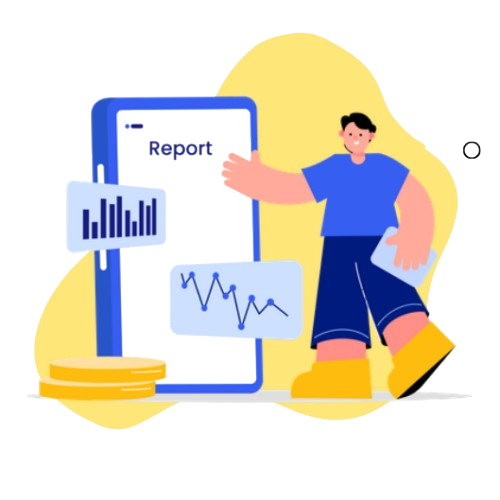
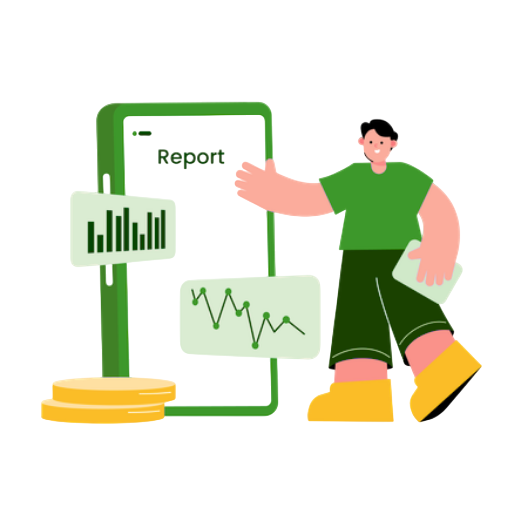
fix colors and header

diff --git a/components/Home/Header/Header.tsx b/components/Home/Header/Header.tsx
@@ -2,36 +2,106 @@ import React from "react";
 
 const Header = () => {
   return (
-    <div className="relative bg-[url('/assets/Header/headerBackground.png')] bg-contain bg-no-repeat bg-center w-full h-[250px] md:h-[400px] lg:h-[600px] 2xl:h-[1000px] mb-6 -mt-12 lg:top-[-60px] z-0 flex flex-row justify-between items-center ">
-      <div className="h-full w-7/12 mx-auto justify-center flex flex-col pl-5 pb-30">
-        <div className="flex items-center h-auto ">
-          <h2 className="md:text-[26px] lg:text-4xl xl:text-5xl 2xl:text-8xl font-agrandir font-bold text-primary self-end mt-6 xl:mt-10 z-10">
-            EL BLOG PERFECTO
-          </h2>
-          <img
-            src="/assets/Header/icon.png"
-            alt=""
-            className="size-11 xl:size-16 self-start -ml-3 lg:-ml-4 xl:-ml-5 z-0"
-          />
-        </div>
-        <div>
+    <>
+      <div
+        className="
+    relative hidden md:flex flex-row justify-between items-center
+    w-full h-[250px] md:h-[400px] lg:h-[600px] 2xl:h-[1000px]
+    bg-[url('/assets/Header/headerBackground.png')] bg-contain bg-no-repeat bg-center
+    -mt-12 mb-6 lg:top-[-60px] z-0 lg:px-12
+  "
+      >
+        {/* Texto principal */}
+        <div className="flex flex-col justify-center h-full w-7/12 mx-auto pl-5 pb-30">
+          {/* Título con ícono */}
+          <div className="flex items-center h-auto">
+            <h2
+              className="
+          font-agrandir font-bold text-primary
+          md:text-[36px] lg:text-4xl xl:text-5xl 2xl:text-8xl
+          self-end mt-6 xl:mt-10 z-10
+        "
+            >
+              EL BLOG PERFECTO
+            </h2>
+            <img
+              src="/assets/Header/icon.png"
+              alt="icon"
+              className="size-11 xl:size-16 self-start -ml-3 lg:-ml-4 xl:-ml-5 z-0"
+            />
+          </div>
+
+          {/* Subtítulo */}
           <h3 className="font-agrandir">
             <span className="flex gap-1">
               <span className="md:text-xl xl:text-2xl">para una</span>
               <span className="md:text-2xl xl:text-5xl">VIDA FINANCIERA</span>
             </span>
-            <span className="md:text-[26px] xl:text-6xl font-agrandir font-bold text-primary">
+            <span
+              className="
+          md:text-[36px] xl:text-6xl
+          font-agrandir font-bold text-primary
+        "
+            >
               PRECISA
             </span>
           </h3>
         </div>
-      </div>
 
-      <img
-        src="/assets/Header/mainimage.png"
-        className="w-[200px] md:w-[325px] lg:w-[450px] xl:w-[600px] 2xl:w-[1000px] aspect-square"
-      />
-    </div>
+        {/* Imagen principal */}
+        <img
+          src="/assets/Header/mainimage.png"
+          alt="main"
+          className="
+      w-[200px] md:w-[325px] lg:w-[450px] xl:w-[600px] 2xl:w-[1000px]
+      aspect-square
+    "
+        />
+      </div>
+      <div
+        className="relative md:hidden flex flex-col items-center justify-between
+    w-full h-[70vh]
+    bg-[url('/assets/Header/headerBackgroundMobile.png')] bg-cover bg-no-repeat bg-center
+    -mt-12 mb-6 z-0"
+      >
+        <div className="flex flex-col h-auto w-full px-10 items-center text-center">
+          {/* Título con ícono */}
+
+          <h2
+            className=" text-3xl w-full
+          font-agrandir font-bold text-primary mt-14 z-10
+        "
+          >
+            EL BLOG PERFECTO
+          </h2>
+
+          {/* Subtítulo */}
+          <h3 className="font-agrandir">
+            <span className="flex gap-1">
+              <span className="text-2xl text-tertiary">para una</span>
+              <span className="text-2xl font-bold">VIDA FINANCIERA</span>
+            </span>
+            <span
+              className="
+          font-agrandir font-bold text-primary text-center text-4xl 
+        "
+            >
+              PRECISA
+            </span>
+          </h3>
+        </div>
+        <img
+          src="/assets/Header/mainimage.png"
+          alt="main"
+          className="
+      w-[80%]
+      max-w-[450px]
+
+      aspect-square
+    "
+        />
+      </div>
+    </>
   );
 };
 

diff --git a/components/Footer/footer.tsx b/components/Footer/footer.tsx
@@ -6,15 +6,22 @@ import { ReactSVG } from "react-svg";
 const Footer = () => {
   return (
     <footer className="bg-primary-background text-background px-10 md:px-20 py-10 self-end">
-      <div className="container mx-auto flex flex-col md:flex-row items-center md:items-start justify-between gap-8">
+      <div className=" mx-auto flex flex-col md:flex-row items-center md:items-start justify-between gap-3">
         {/* Imagen */}
         <div className="flex flex-col flex-shrink-0 gap-8">
           <Image
             src="/assets/Layout/Navbar/logop.png" // Cambia por tu imagen
             alt="Wallet en la nube"
-            width={300}
-            height={300}
-            className="rounded-2xl"
+            width={220}
+            height={220}
+            className="rounded-2xl block lg:hidden"
+          />
+          <Image
+            src="/assets/Layout/Navbar/logop.png" // Cambia por tu imagen
+            alt="Wallet en la nube"
+            width={320}
+            height={320}
+            className="rounded-2xl lg:block md:hidden"
           />
           <div className="hidden md:flex gap-4">
             <span className="font-semibold font-agrandir text-xl self-end">
@@ -36,9 +43,9 @@ const Footer = () => {
         </div>
 
         {/* Texto y botón */}
-        <div className="text-center md:text-left max-w-md">
-          <h2 className="text-3xl md:text-7xl font-bold font-agrandir">
-            WALLET EN LA NUBE
+        <div className="text-center md:text-left max-w-xl self-center">
+          <h2 className="text-3xl lg:text-5xl font-bold font-agrandir">
+            EL MONOPOLOMBIANO
           </h2>
           <p className="mt-4 text-sm font-canva-sans">
             Para más información, ayuda y asesoría, puedes suscribirte a nuestra
@@ -73,11 +80,11 @@ const Footer = () => {
 
         {/* Links legales */}
         <div className="flex flex-col-reverse md:flex-row items-center justify-between w-full gap-4">
-          <p className="font-agrandir font-bold text-sm">
-            © Wallet en la nube 2025
+          <p className="font-agrandir font-bold text-sm lg:text-lg">
+            © El Monopolombiano 2025
           </p>
 
-          <div className="flex flex-row items-center gap-4 text-sm">
+          <div className="flex flex-row items-center gap-4 text-sm lg:text-lg">
             <a href="#" className="font-agrandir font-bold">
               Política de privacidad
             </a>

diff --git a/components/nu/Table.tsx b/components/nu/Table.tsx
@@ -71,7 +71,7 @@ const CalculatorNu = ({
         <h3 className="text-sm text-secondary font-canva-sans font-bold">
           Valor a invertir
         </h3>
-        <div className="group flex items-center gap-2 border-2 border-purple-200 rounded-lg px-3 py-2 bg-background md:w-2/5  hover:border-purple-500 focus-within:border-purple-500">
+        <div className="group flex items-center gap-2 border-2 border-green-200 rounded-lg px-3 py-2 bg-background md:w-2/5  hover:border-green-500 focus-within:border-green-500">
           <DollarSignIcon />
           {/* Campo de entrada */}
           <input
@@ -87,7 +87,7 @@ const CalculatorNu = ({
           <h3 className="text-sm text-secondary font-canva-sans font-bold">
             Rentabilidad
           </h3>
-          <div className="group flex items-center gap-2 border-2 border-purple-200 rounded-lg px-3 py-2 bg-background md:w-2/5  hover:border-purple-500 focus-within:border-purple-500">
+          <div className="group flex items-center gap-2 border-2 border-green-200 rounded-lg px-3 py-2 bg-background md:w-2/5  hover:border-green-500 focus-within:border-green-500">
             {/* Campo de entrada */}
             <select
               className="text-black font-bold outline-none w-full"
@@ -107,7 +107,7 @@ const CalculatorNu = ({
         <h3 className="text-sm text-secondary font-canva-sans font-bold">
           Periodo (dias)
         </h3>
-        <div className="group flex items-center gap-2 border-2 border-purple-200 rounded-lg px-3 py-2 bg-background md:w-2/5  hover:border-purple-500 focus-within:border-purple-500">
+        <div className="group flex items-center gap-2 border-2 border-green-200 rounded-lg px-3 py-2 bg-background md:w-2/5  hover:border-green-500 focus-within:border-green-500">
           <input
             type="string"
             value={days}

diff --git a/components/DolarConversor/DolarConversor.tsx b/components/DolarConversor/DolarConversor.tsx
@@ -47,7 +47,7 @@ const DolarConversor = ({ dolar }: { dolar: Dolar }) => {
           <h4 className="text-sm text-secondary font-canva-sans font-bold">
             Cantidad
           </h4>
-          <div className="group flex items-center border-2 border-purple-200 rounded-lg px-3 py-2 bg-background w-full  hover:border-purple-500 focus-within:border-purple-500 pr-9 md:pr-8 xl:pr-5">
+          <div className="group flex items-center border-2 border-green-200 rounded-lg px-3 py-2 bg-background w-full  hover:border-green-500 focus-within:border-green-500 pr-9 md:pr-8 xl:pr-5">
             <DollarSignIcon strokeWidth={3} />
             {/* Campo de entrada */}
             <input
@@ -74,7 +74,7 @@ const DolarConversor = ({ dolar }: { dolar: Dolar }) => {
           <h4 className="text-sm text-secondary font-canva-sans font-bold">
             Cantidad
           </h4>
-          <div className="group flex items-center gap-2 border-2 border-purple-200 rounded-lg px-3 py-2 bg-background w-full  hover:border-purple-500 focus-within:border-purple-500 pr-9 md:pr-8 xl:pr-5">
+          <div className="group flex items-center gap-2 border-2 border-green-200 rounded-lg px-3 py-2 bg-background w-full  hover:border-green-500 focus-within:border-green-500 pr-9 md:pr-8 xl:pr-5">
             <DollarSignIcon strokeWidth={3} />
             {/* Campo de entrada */}
             <input

diff --git a/components/4x1000/Calculator.tsx b/components/4x1000/Calculator.tsx
@@ -5,7 +5,7 @@ import { Button } from "@/components/ui/button";
 import { Card, CardContent } from "@/components/ui/card";
 import { DollarSignIcon } from "lucide-react";
 import { convertStringtoNumber, validarNumero } from "@/lib/utils";
-import { convertNumbertoString } from "../lib/utils";
+import { convertNumbertoString } from "../../lib/utils";
 
 export function Calculator() {
   const [monto, setMonto] = useState("");
@@ -36,7 +36,7 @@ export function Calculator() {
         <h3 className="text-sm text-secondary font-canva-sans font-bold">
           Valor a convertir
         </h3>
-        <div className="group flex items-center gap-2 border-2 border-purple-200 rounded-lg px-3 py-2 bg-background md:w-2/5  hover:border-purple-500 focus-within:border-purple-500">
+        <div className="group flex items-center gap-2 border-2 border-green-200 rounded-lg px-3 py-2 bg-background md:w-2/5  hover:border-green-500 focus-within:border-green-500">
           <DollarSignIcon />
           {/* Campo de entrada */}
           <input

diff --git a/app/herramientas/calculadora-4x1000/page.tsx b/app/herramientas/calculadora-4x1000/page.tsx
@@ -1,6 +1,6 @@
 import { Metadata } from "next";
 import { Card, CardContent } from "@/components/ui/card";
-import { Calculator } from "@/components/Calculator";
+import { Calculator } from "@/components/4x1000/Calculator";
 import { InfoSection } from "@/components/CommonComponents/InfoSection/InfoSection";
 import { FAQ } from "@/components/CommonComponents/FAQ/FAQ";
 import Tag from "@/components/CommonComponents/Tag";
@@ -75,9 +75,9 @@ export default function Page() {
             <Tag title="HERRAMIENTAS" />
           </div>
           <img
-            src="/assets/4x1000/4x1000.webp"
+            src="/assets/4x1000/4x1000.png"
             alt="4x1000"
-            className="mx-auto max-w-5/6 md:max-w-3/6 lg:max-w-2/6 self-"
+            className="mx-auto max-w-5/6 md:max-w-3/6 lg:max-w-2/6"
           />
           <div className="h-auto hidden md:block ">
             <p className="text-sm lg:text-lg bg-background text-background px-2 py-1 rounded-full font-agrandir font-bold cursor-default">

diff --git a/app/globals.css b/app/globals.css
@@ -59,13 +59,13 @@
   --popover: oklch(1 0 0);
   --popover-foreground: oklch(0.141 0.005 285.823);
   --primary: oklch(0.87 0.17 92.57);
-  --primary-foreground: oklch(0.53 0.12 147.5);
+  --primary-foreground: oklch(0.91 0.14 96.6);
   --primary-background: oklch(0.53 0.12 147.5);
-  --secondary: oklch(0.55 0.02 280); /* Gris neutro azulado */
+  --secondary: oklch(0.53 0.12 147.5); /* Gris neutro azulado */
   --secondary-foreground: oklch(0.92 0.01 280);
   --secondary-background: oklch(0.7 0.01 280);
-  --tertiary: oklch(0.65 0.12 170); /* Verde esmeralda */
-  --tertiary-foreground: oklch(0.18 0.02 170);
+  --tertiary: oklch(0 0 0);
+  --tertiary-foreground: oklch(0.97 0.02 148.2);
   --tertiary-background: oklch(0.82 0.05 170);
   --muted: oklch(0.967 0.001 286.375);
   --muted-foreground: oklch(0.552 0.016 285.938);

diff --git a/components/Navbar/DesktopMenu.tsx b/components/Navbar/DesktopMenu.tsx
@@ -48,7 +48,7 @@ export default function DesktopMenu({
               className="font-semibold text-white  drop-shadow-md"
             >
               <div className="w-full text-center transition-all">
-                <h2 className="relative w-auto line-clamp-1">
+                <h2 className="relative w-auto line-clamp-1 text-lg">
                   {item.label}
                   {isActive && (
                     <span className="absolute left-1/2 -translate-x-1/2 top-full w-0 h-0 border-l-[10px] border-r-[10px] border-b-[10px] border-transparent border-b-background" />

diff --git a/components/LayoutHome.tsx b/components/LayoutHome.tsx
@@ -15,7 +15,7 @@ const LayoutHome = ({ children }: { children: React.ReactNode }) => {
       <div className="my-6 mx-5 pb-10 lg:my-10 lg:mx-12 bg-background rounded-4xl">
         <Navbar open={open} setOpen={setOpen} pathname={pathname[1]} />
         {!open && (
-          <main className="w-full mx-auto pt-8 lg:pt-28 md:pb-10">
+          <main className="w-full mx-auto pt-8 lg:pt-36 md:pb-10">
             {children}
           </main>
         )}

diff --git a/app/blog/[slug]/page.tsx b/app/blog/[slug]/page.tsx
@@ -21,7 +21,7 @@ export default function BlogArticle() {
 
   return (
     <div className="container md:-mt-6">
-      <h1 className="font-agrandir font-bold text-secondary text-3xl  md:text-4xl">
+      <h1 className="font-agrandir font-bold text-secondary text-3xl  md:text-4xl text-center">
         {data?.title} <span className="text-primary">{data?.focusTitle}</span>{" "}
         {data?.continueTitle}
       </h1>

diff --git a/components/Navbar/Logo.tsx b/components/Navbar/Logo.tsx
@@ -14,8 +14,8 @@ export default function Logo({ small = false }: LogoProps) {
         <Image
           src="/assets/Layout/Navbar/logop.png"
           alt="Logo"
-          width={small ? 80 : 180}
-          height={small ? 80 : 180}
+          width={small ? 80 : 250}
+          height={small ? 80 : 250}
           className="rounded-lg"
         />
       </Link>

diff --git a/components/Home/Home.tsx b/components/Home/Home.tsx
@@ -17,9 +17,9 @@ export default function Home() {
   const data: Blog[] = blogs;
   return (
     <>
-      <div className="container">
-        <Header />
+      <Header />
 
+      <div className="container">
         <IntroductionSection />
         <PostPreviewCardHorizontal />
         <News title={"Ultimas noticias"} data={data} />
